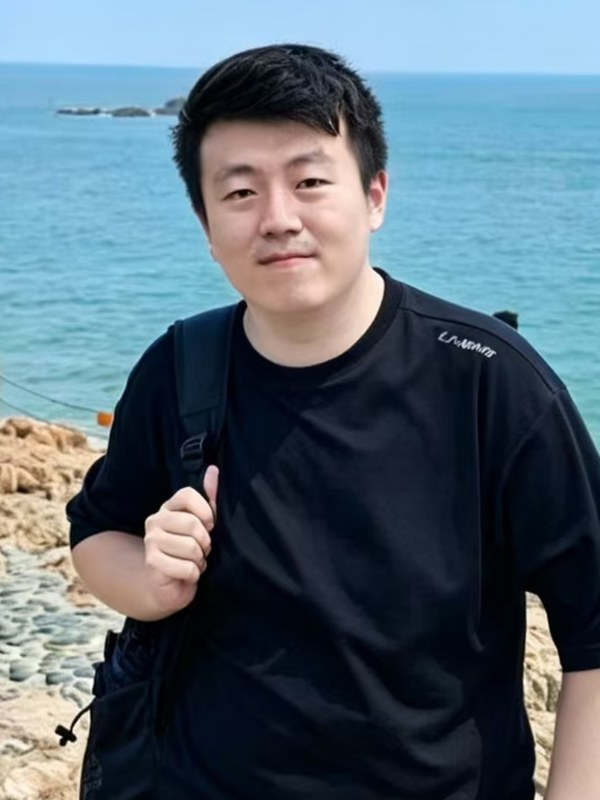
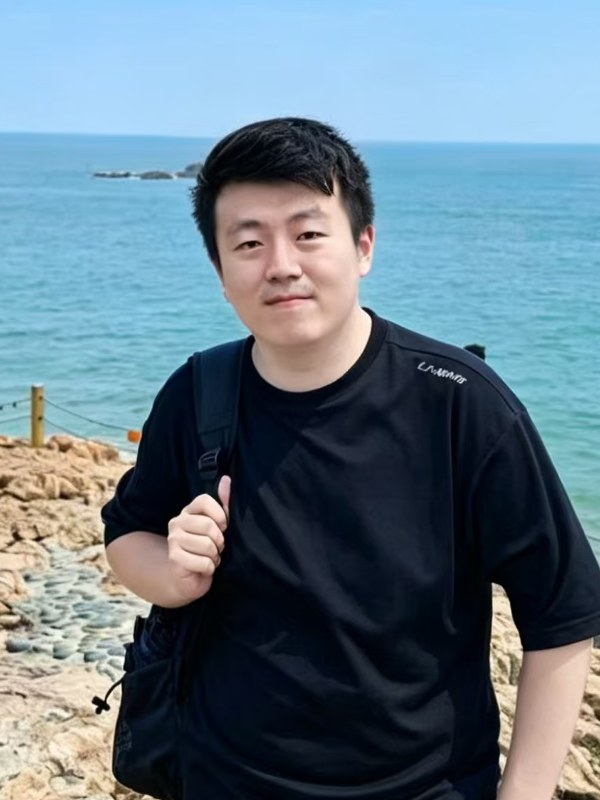
放开头像裁剪，重写侧边栏文字并移除 GitHub 链接
- images/avatar.jpg：裁剪框放开至 (85,250)-(685,1050)，视野增加约 38%
- _config.yml：bio 拆两行（软件学院 / 软件工程硕士），新增 research 字段，清空 github
- _includes/author-profile.html：侧边栏改渲染「研究方向：」+ author.research，不再重复 site.description

diff --git a/_includes/author-profile.html b/_includes/author-profile.html
@@ -16,8 +16,8 @@
   <div class="author__urls-wrapper">
     <!-- <button class="btn btn--inverse">More Info & Contact</button> -->
     <ul class="author__urls social-icons">
-      {% if site.description %}
-        <li><div style="white-space: normal; margin-bottom: 1em;">{{ site.description }}</div></li>
+      {% if author.research %}
+        <li><div style="white-space: normal; margin-bottom: 1em;"><strong>研究方向：</strong>{{ author.research }}</div></li>
       {% endif %}
       {% if author.location %}
         <li><i class="fa fa-fw fa-map-marker" aria-hidden="true"></i> {{ author.location }}</li>
